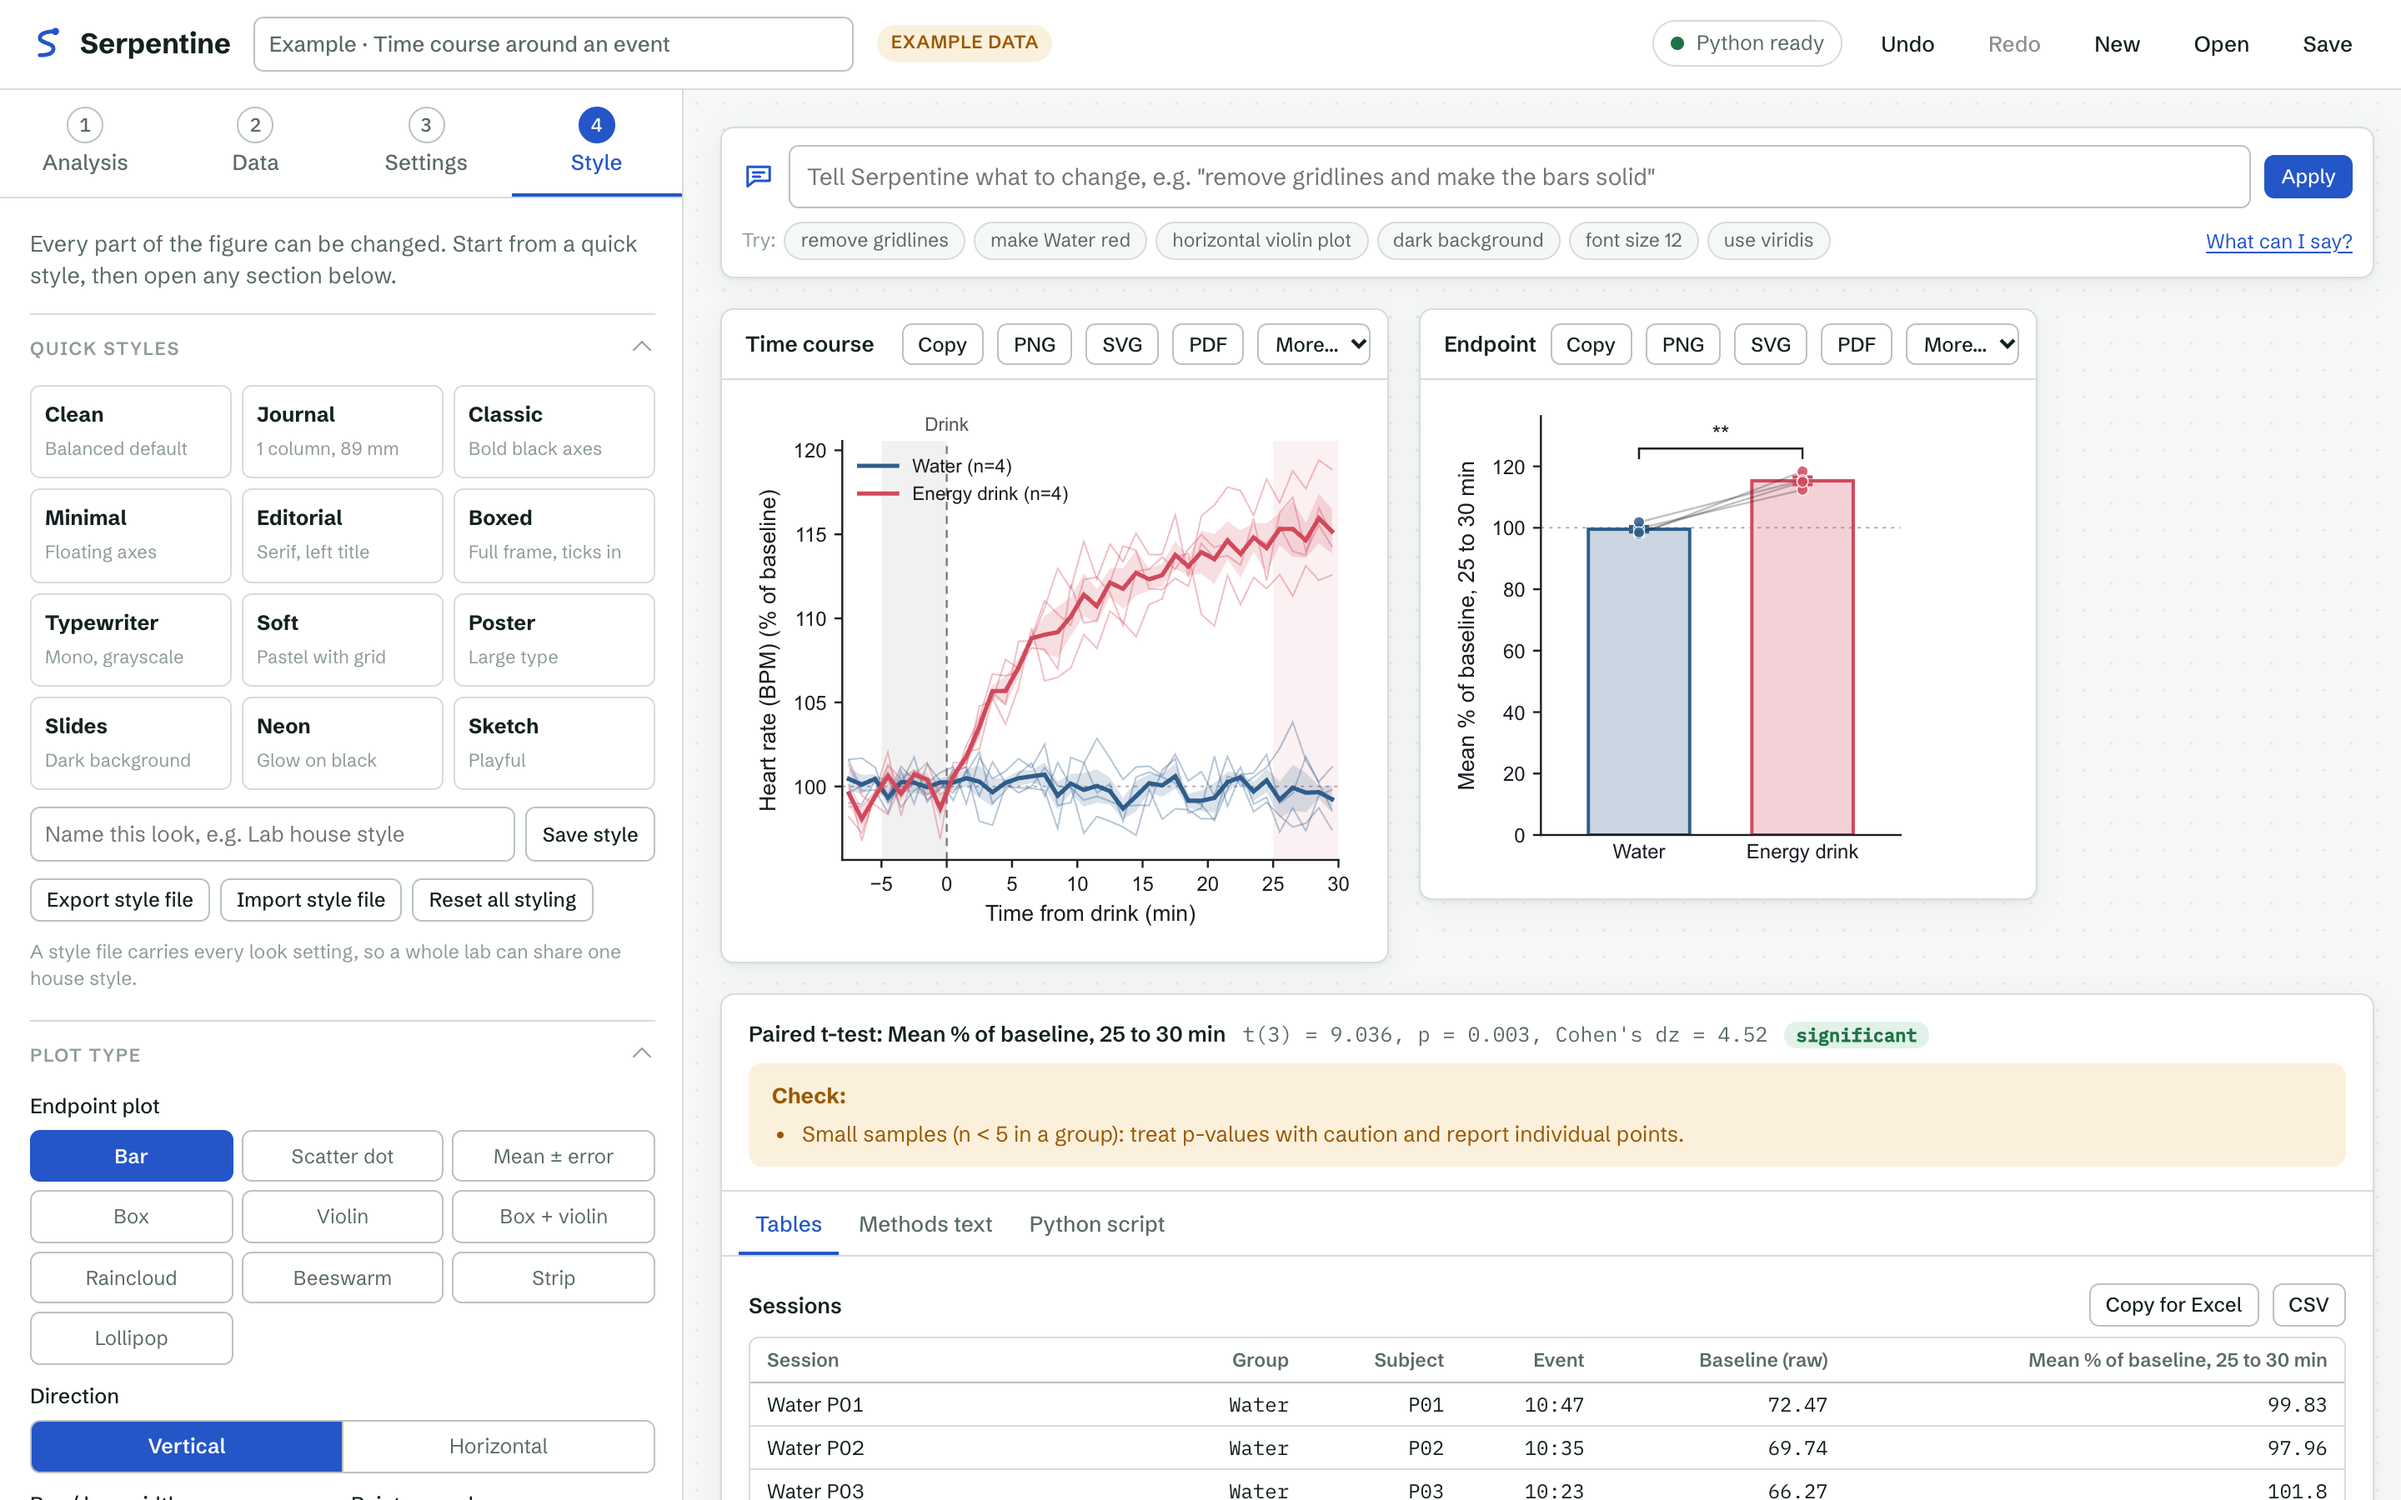
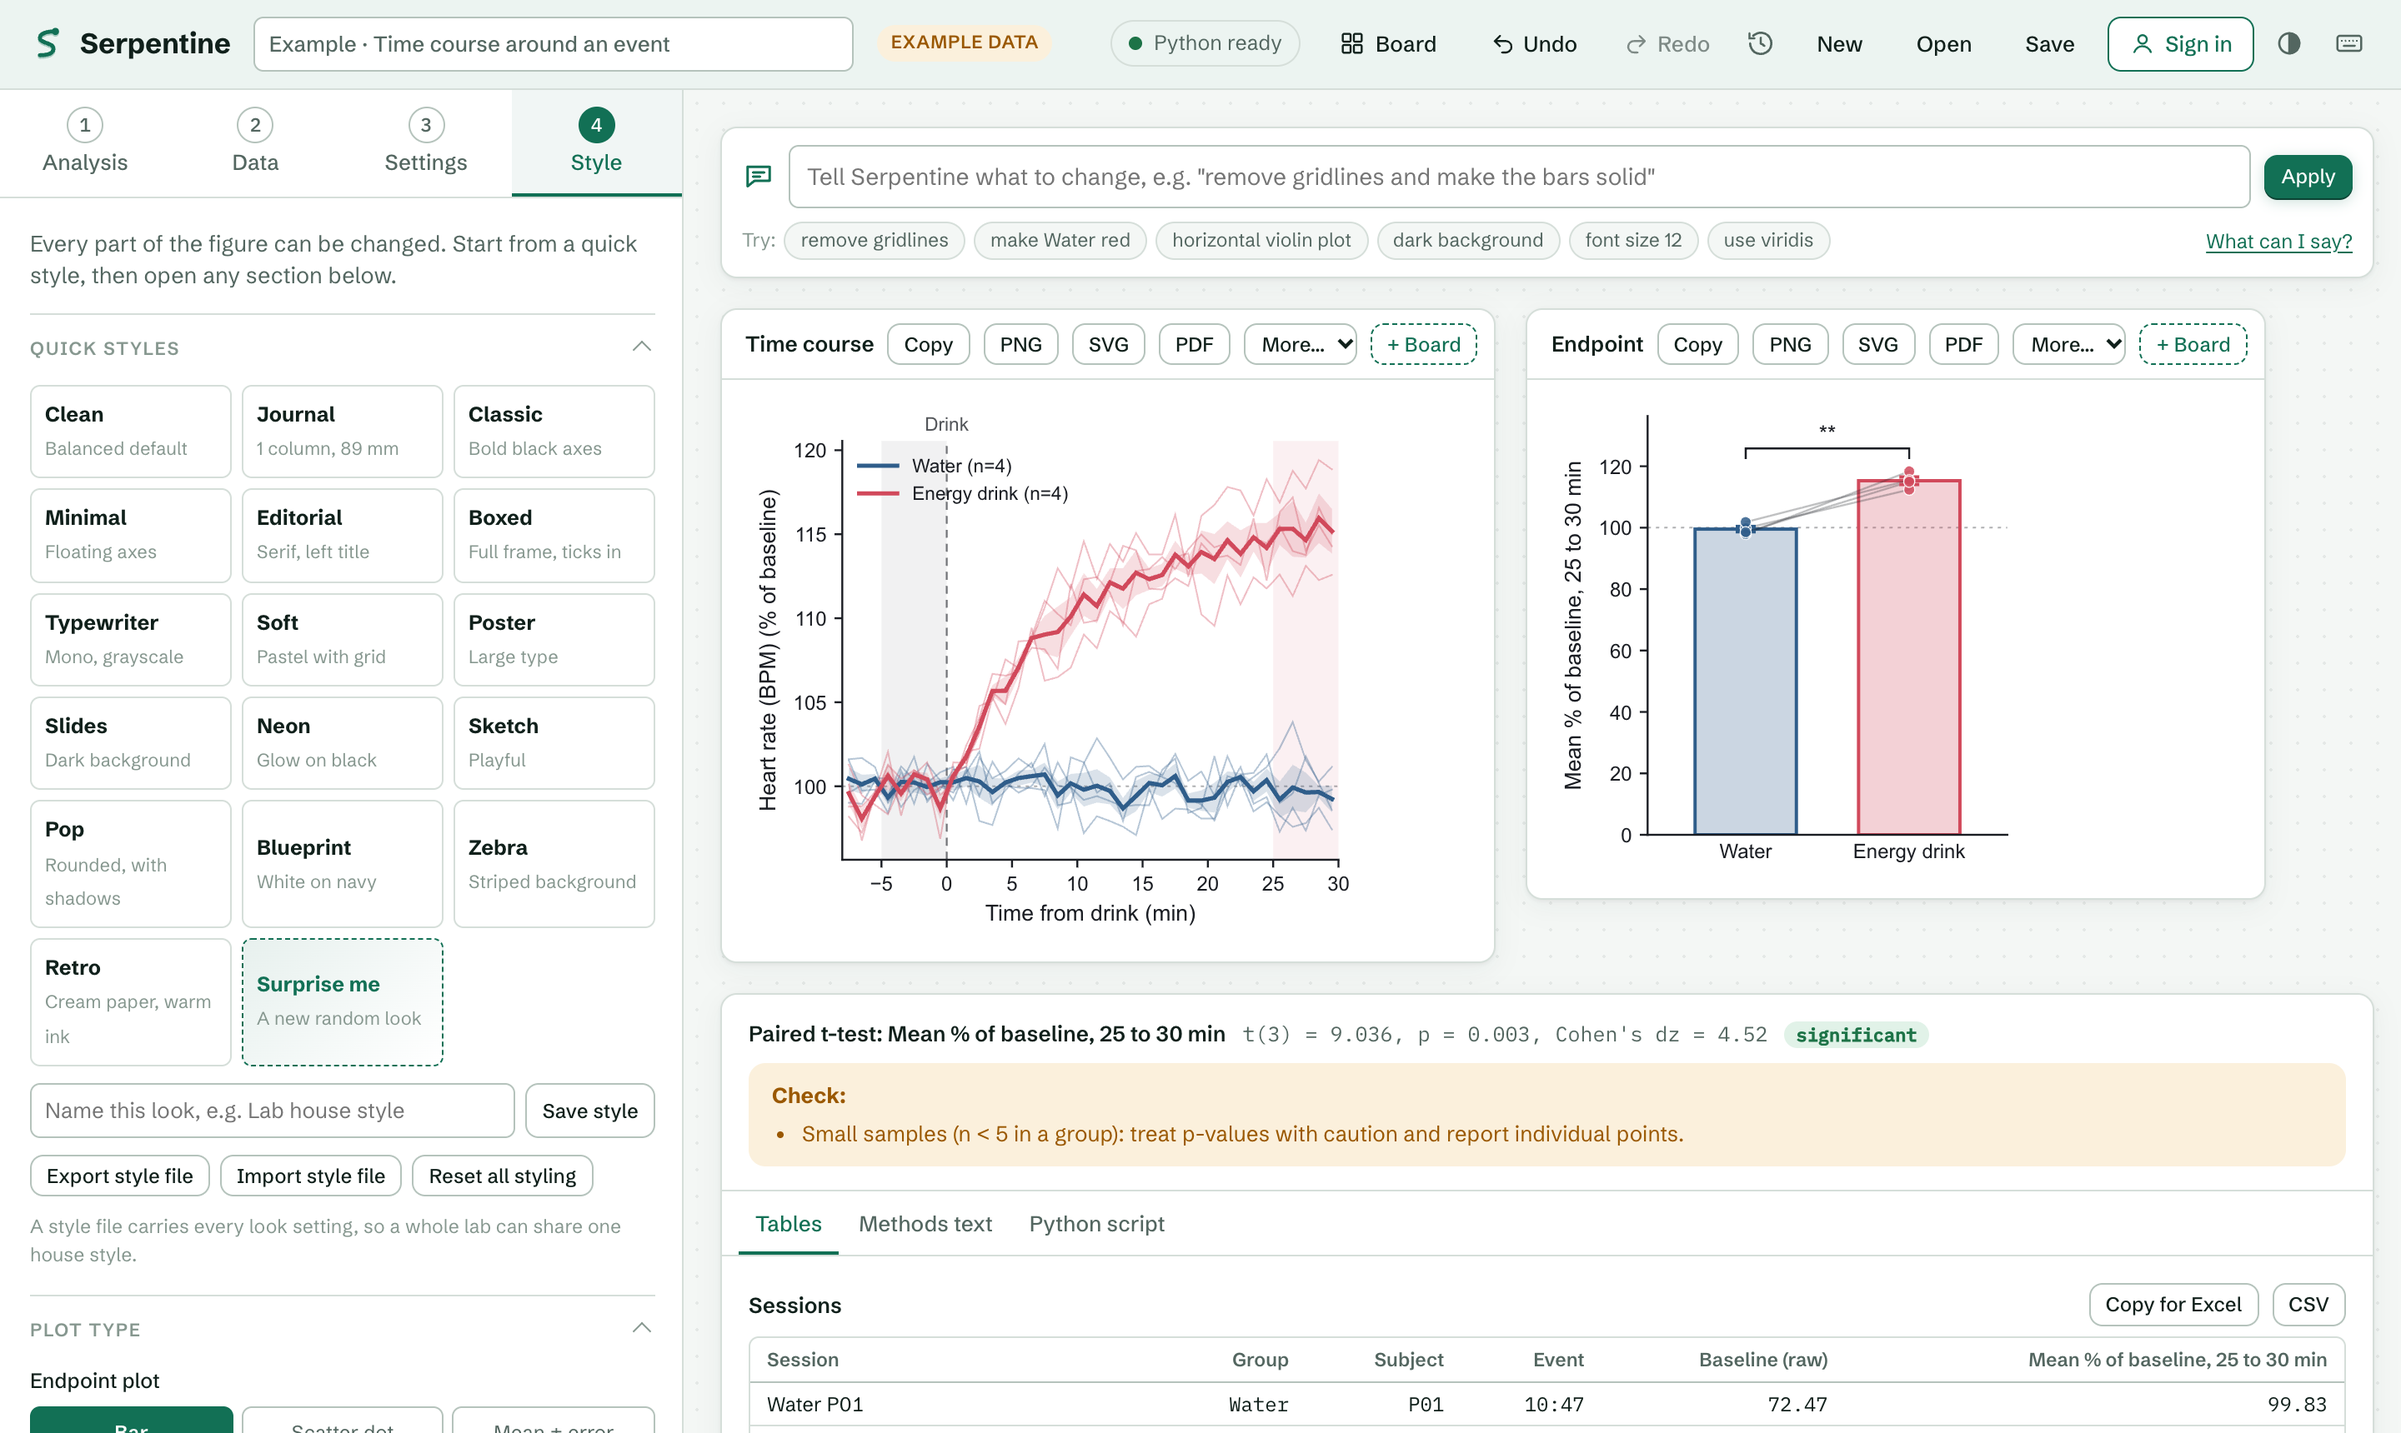
Front page: accounts, board and undo features, new screenshot, updated stats

diff --git a/index.html b/index.html
@@ -248,19 +248,19 @@ footer .sp { margin-left: auto; }
   <!-- Hero -->
   <section class="hero">
     <div class="wrap">
-      <div class="eyebrow rise"><span>v0.9</span><i></i><span>Free</span><i></i><span>Runs in your browser</span></div>
+      <div class="eyebrow rise"><span>v0.9</span><i></i><span>Free</span><i></i><span>Runs in your browser</span><i></i><span>Encrypted accounts</span></div>
       <h1 class="rise d1">Raw lab data in. <em>Publication figures</em> out.</h1>
-      <p class="lede rise d2">Serpentine runs the statistics and draws the figures for you, using the same Python tools behind countless published studies. You choose everything from plain menus and never write a line of code. Your data stays on your computer.</p>
+      <p class="lede rise d2">Serpentine runs the statistics and draws the figures for you, using the same Python tools behind countless published studies. You choose everything from plain menus and never write a line of code. Your data stays on your computer, and if you want your projects everywhere, a free account keeps them online, end-to-end encrypted.</p>
       <div class="cta rise d3">
         <a class="btn btn-primary" href="app.html">
           <svg viewBox="0 0 20 20" fill="currentColor" aria-hidden="true"><path d="M6 4.5v11l9-5.5-9-5.5z"/></svg>Open Serpentine</a>
         <a class="btn btn-line" href="https://github.com/Frizzell-5/Serpentine/releases/latest/download/Serpentine.zip">
           <svg viewBox="0 0 20 20" fill="none" stroke="currentColor" stroke-width="1.8" stroke-linecap="round" stroke-linejoin="round" aria-hidden="true"><path d="M10 3v10m0 0l-4-4m4 4l4-4M4 16h12"/></svg>Download for Mac &amp; Windows</a>
-        <span class="cta-note">No sign-up · No install · Try the built-in examples</span>
+        <span class="cta-note">No install · Account optional · Try the built-in examples</span>
       </div>
       <figure class="plate rise d4">
         <div class="plate-bar" aria-hidden="true"><i></i><i></i><i></i><span>Serpentine · time course around an event</span></div>
-        <img src="docs/screenshot.png" width="2880" height="1720" alt="Serpentine showing heart-rate recordings after water or an energy drink, aligned to the drink, with a time-course plot, an endpoint bar chart, a paired t-test result and the Style controls.">
+        <img src="docs/screenshot.png" width="2880" height="1720" alt="Serpentine showing heart-rate recordings after water or an energy drink, with a time-course plot, an endpoint bar chart, a paired t-test result, the Style controls, and Board and Sign in buttons in the top bar.">
       </figure>
     </div>
   </section>
@@ -268,8 +268,8 @@ footer .sp { margin-left: auto; }
   <!-- Facts -->
   <div class="strip">
     <div class="wrap">
+      <div class="stat"><b>11</b><span>analyses, from t-tests to qPCR</span></div>
       <div class="stat"><b>10</b><span>plot types, each fully adjustable</span></div>
-      <div class="stat"><b>16</b><span>statistical methods</span></div>
       <div class="stat"><b>0</b><span>lines of code to write</span></div>
       <div class="stat"><b>0&nbsp;KB</b><span>of your data readable by anyone else</span></div>
     </div>
@@ -287,7 +287,7 @@ footer .sp { margin-left: auto; }
         <li><span class="n">01</span><h3>Pick an analysis</h3><p>Compare groups or two factors at once, follow a recording over time, fit any curve, read an ELISA, quantify qPCR, analyze counts, draw survival curves or plan your sample size.</p></li>
         <li><span class="n">02</span><h3>Add your data</h3><p>Paste straight from Excel, Prism or a LabChart Data Pad, or drop in CSV and Excel files.</p></li>
         <li><span class="n">03</span><h3>Set the analysis</h3><p>Baselines, exclusions, normalization, tests and comparisons, each one a plain setting.</p></li>
-        <li><span class="n">04</span><h3>Style and export</h3><p>Choose a look, fine-tune colors and labels, then export figures, tables and methods text.</p></li>
+        <li><span class="n">04</span><h3>Style and export</h3><p>Choose a look, fine-tune colors and labels, combine figures into one lettered multi-panel figure, then export figures, tables and methods text.</p></li>
       </ol>
     </div>
   </section>
@@ -437,7 +437,7 @@ footer .sp { margin-left: auto; }
         <div class="feature">
           <svg viewBox="0 0 24 24" fill="none" stroke="currentColor" stroke-width="1.8" stroke-linecap="round" stroke-linejoin="round" aria-hidden="true"><rect x="4" y="10" width="16" height="11" rx="2"/><path d="M8 10V7a4 4 0 018 0v3"/></svg>
           <h3>Your data stays private</h3>
-          <p>Python runs inside your browser. Nothing is sent to a server, which keeps unpublished and patient-adjacent data where it belongs.</p>
+          <p>Python runs inside your browser, so your analysis never touches a server. Projects saved to an account are encrypted on your computer first, so unpublished and patient-adjacent data stays readable only by you.</p>
         </div>
         <div class="feature">
           <svg viewBox="0 0 24 24" fill="none" stroke="currentColor" stroke-width="1.8" stroke-linecap="round" stroke-linejoin="round" aria-hidden="true"><path d="M8 7l-5 5 5 5M16 7l5 5-5 5M14 4l-4 16"/></svg>
@@ -463,6 +463,21 @@ footer .sp { margin-left: auto; }
           <svg viewBox="0 0 24 24" fill="none" stroke="currentColor" stroke-width="1.8" stroke-linecap="round" stroke-linejoin="round" aria-hidden="true"><path d="M4 4h7v7H4zM13 4h7v7h-7zM4 13h7v7H4zM13 13h7v7h-7z"/></svg>
           <h3>Results you can reuse</h3>
           <p>Statistics tables copy straight into Excel or Prism. Projects and styles save to files you can reopen, archive or share with your lab.</p>
+        </div>
+        <div class="feature">
+          <svg viewBox="0 0 24 24" fill="none" stroke="currentColor" stroke-width="1.8" stroke-linecap="round" stroke-linejoin="round" aria-hidden="true"><path d="M7 18a4.5 4.5 0 01-.5-9A6 6 0 0118 8a4 4 0 01-.5 8"/><path d="M12 12v8m-3-3l3 3 3-3"/></svg>
+          <h3>Your projects, anywhere</h3>
+          <p>A free account saves every change online as you work, so you can pick up on another computer. Encrypted with your password before upload; a recovery key covers a forgotten password.</p>
+        </div>
+        <div class="feature">
+          <svg viewBox="0 0 24 24" fill="none" stroke="currentColor" stroke-width="1.8" stroke-linecap="round" stroke-linejoin="round" aria-hidden="true"><rect x="3.5" y="3.5" width="7" height="7" rx="1"/><rect x="13.5" y="3.5" width="7" height="7" rx="1"/><rect x="3.5" y="13.5" width="7" height="7" rx="1"/><rect x="13.5" y="13.5" width="7" height="7" rx="1"/></svg>
+          <h3>Multi-panel figures</h3>
+          <p>Collect figures from any analysis on the board, lay them out at journal widths with A, B, C letters, and export one figure as PNG, TIFF, PDF or SVG.</p>
+        </div>
+        <div class="feature">
+          <svg viewBox="0 0 24 24" fill="none" stroke="currentColor" stroke-width="1.8" stroke-linecap="round" stroke-linejoin="round" aria-hidden="true"><path d="M9 14L4 9l5-5"/><path d="M4 9h10.5a5.5 5.5 0 010 11H11"/></svg>
+          <h3>Undo anything</h3>
+          <p>Every change, including deleted tables and cleared boards, can be undone, with a history list and keyboard shortcuts for the things you do most.</p>
         </div>
       </div>
     </div>
